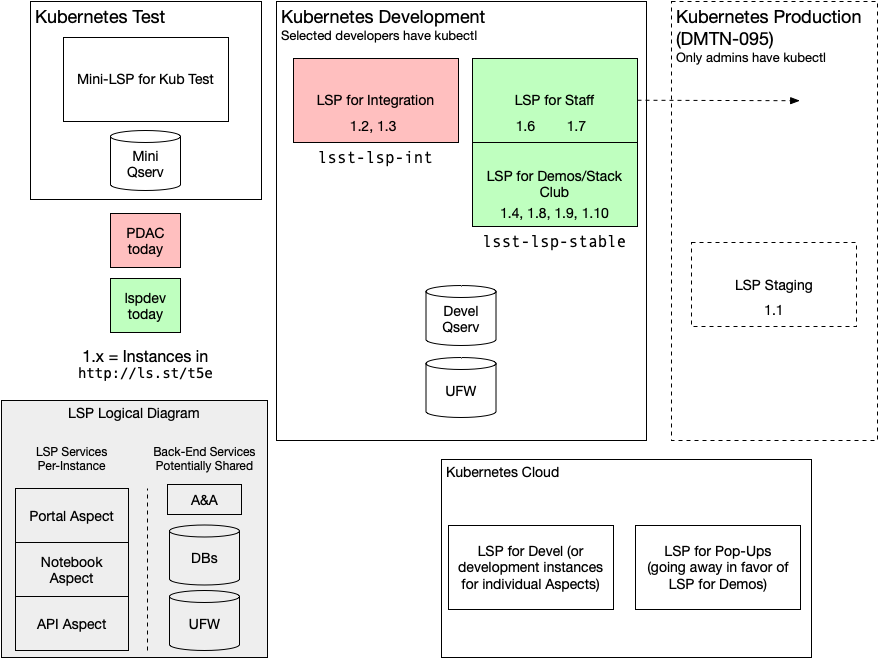
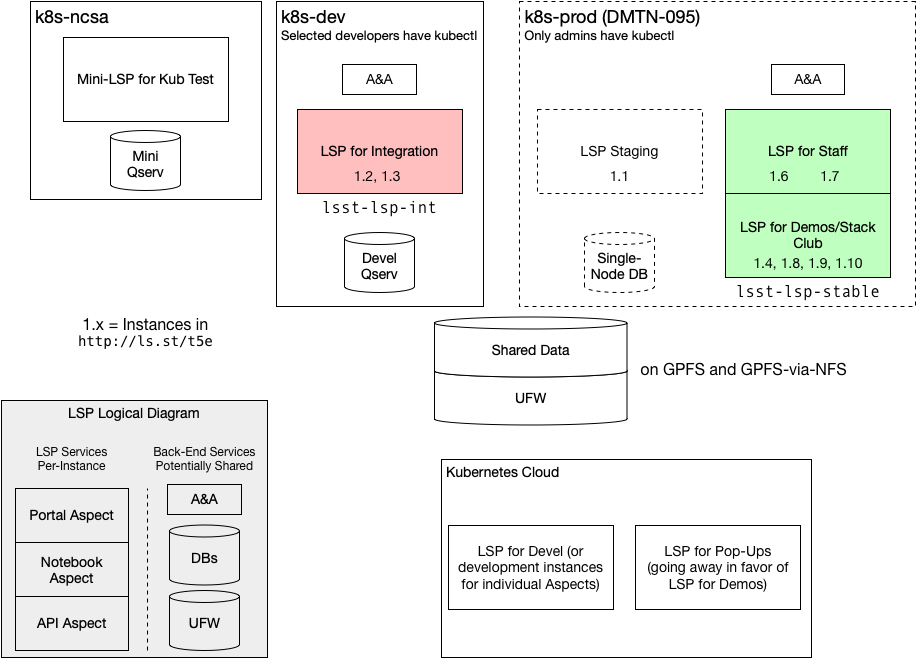
Update to reflect state as of 2019-05-21.

diff --git a/index.rst b/index.rst
@@ -23,8 +23,11 @@ Kubernetes Clusters
 -------------------
 
 The LSP is deployed on Kubernetes.
-There are currently two Kubernetes clusters available, both at NCSA: a large one called the Kubernetes Commons used for development and a much smaller one used primarily for testing new Kubernetes versions.
+There are currently two Kubernetes clusters available, both at NCSA: a large one called k8s-prod used for production and a smaller one called k8s-dev used for development.
+A third, tiny Kubernetes cluster, k8s-ncsa, is sometimes configured for testing new Kubernetes versions.
 In addition, the cloud-based Google Kubernetes Engine (GKE) is sometimes used for deployments of the LSP.
+
+Deployments in the production cluster, as well as adjustments to its configuration, will be limited and performed after a change control process to ensure stability.
 
 LSP Instances
 -------------
@@ -34,10 +37,11 @@ LSP Instances
 
    LSP instances as of December 2018.
 
-There are two primary instances of the LSP today, both deployed in the Kubernetes Commons.
-One is used for integration and science-level validation testing; this is the former ``lsst-pdac`` (for Prototype Data Access Center) that will be renamed ``lsst-lsp-int`` (for integration).
+There are two primary instances of the LSP today.
+One is used for integration and science-level validation testing; this is the ``lsst-lsp-int`` instance (for integration) that was formerly named ``lsst-pdac`` (for Prototype Data Access Center).
 The second is used for Science Pipelines developer investigation and testing by LSST DM staff as well as a mix of non-DM and non-LSST users via demonstrations, boot camps, and the "Stack Club".
-It was previously named ``lsst-lspdev`` (indicating its use for Science Pipelines developers) but will be renamed ``lsst-lsp-stable``.
+It is named ``lsst-lsp-stable``, although its level of stability is only "best effort".
+This second instance was previously named ``lsst-lspdev`` (indicating its use for Science Pipelines developers).
 
 The ``lsst-lsp-int`` instance has long had a Portal Aspect and API Aspect deployed.
 Recently a Notebook Aspect was added.
@@ -46,9 +50,10 @@ This Qserv instance is somewhere between development and integration.
 While substantial developer testing can be done on the Qserv cluster at IN2P3, data availability and scale require certain tests to be run at NCSA.
 Image datasets have been provided from ``/datasets`` in the common NCSA GPFS filesystem.
 The User File Workspace for the Notebook Aspect of the instance is also provided from ``/jhome`` in GPFS.
-Authentication is only provided for the Notebook Aspect via CILogon.
+Authentication is provided via an OAuth proxy that gives single sign-on (SSO) capability.
 
 The ``lsst-lsp-stable`` instance has only had a Notebook Aspect deployed, with image datasets and the User File Workspace from GPFS and authentication via CILogon.
+Recently Portal and Web API Aspects have been deployed in this instance.
 
 At times, "pop-up" deployments of the LSP (just the Notebook Aspect) on GKE have been used to support elastic, short-term usage.
 Images are copied to the cloud and the User File Workspace is also provided there, with no direct connection to NCSA resources.
@@ -57,19 +62,10 @@ Images are copied to the cloud and the User File Workspace is also provided ther
 Future Deployments
 ==================
 
-Near Future
------------
-
-In the near future, a Kubernetes Production cluster will be brought up.
-Deployments in this cluster, as well as adjustments to its configuration, will be limited and performed after a change control process to ensure stability.
-The ``lsst-lsp-stable`` LSP instance will move into this cluster.
-A Portal Aspect will be brought up in this instance as well to provide Firefly visualization services.
-There are no current plans to bring up the API Aspect in this instance, but this will happen at some point, along with a database back-end (that need not be Qserv).
-
 Staging Instance
 ----------------
 
-Later on, as part of the change control process, it is anticipated that a staging instance will be deployed in the Kubernetes Production cluster as a final test before having changes go live in the ``lsst-lsp-stable`` instance.
+As part of the change control process, it is anticipated that a staging instance will be deployed in the Kubernetes Production cluster as a final test before having changes go live in the ``lsst-lsp-stable`` instance.
 
 Kubernetes Test Instance
 ------------------------
